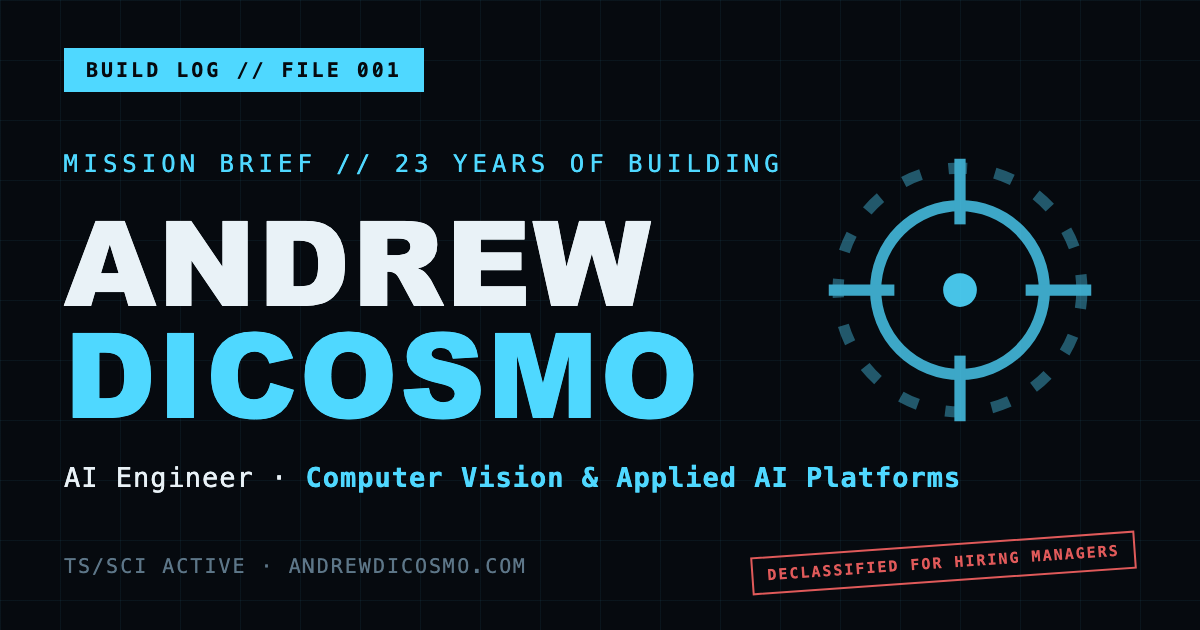
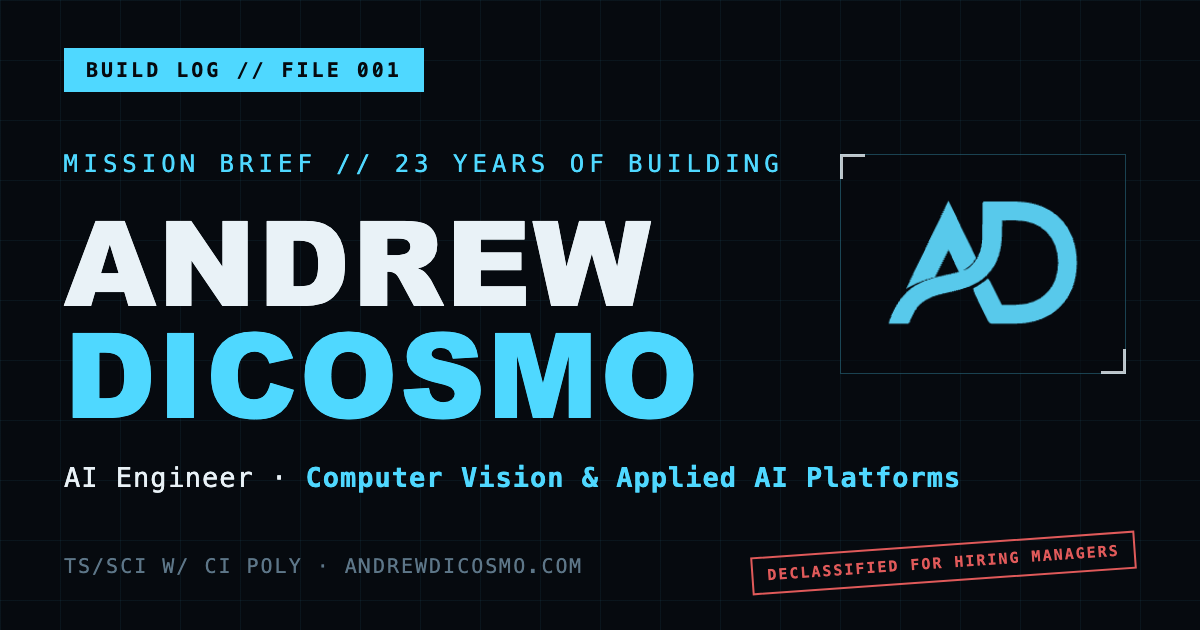
Polish inquiry alerts and branded sharing assets

diff --git a/api/src/functions/brief.js b/api/src/functions/brief.js
@@ -100,6 +100,118 @@ function formatOwnerInquiry(lead, body) {
   return lines.filter((line) => line !== null && line !== undefined).join('\n').slice(0, 20000);
 }
 
+function formatOwnerInquiryHtml(lead, body) {
+  const paths = formatPath(body.paths || {});
+  const fields = formatFields(body.fields || [], body.paths || {});
+  const chips = Array.isArray(body.chips) ? body.chips.map(clean).filter(Boolean) : [];
+  const inquiryNotes = clean(body.brief);
+  const reqLink = safeHttpsUrl(body.reqLink);
+  const contactRows = compact([
+    ['Name', lead.name],
+    ['Email', lead.email],
+    clean(lead.company) ? ['Company', clean(lead.company)] : null,
+    clean(lead.role) ? ['Role or title', clean(lead.role)] : null,
+    paths ? ['Engagement path', paths] : null
+  ]);
+  const detailRows = [...contactRows, ...fields].map(([label, value]) => `
+                    <tr>
+                      <td class="detail-row" style="padding:10px 0;border-bottom:1px solid #e7edf2;">
+                        <div class="muted" style="color:#66727c;font-size:11px;line-height:1.4;text-transform:uppercase;letter-spacing:0.6px;">${escapeHtml(label)}</div>
+                        <div class="body-copy" style="margin-top:3px;color:#16222b;font-size:14px;line-height:1.5;font-weight:700;">${escapeHtml(value)}</div>
+                      </td>
+                    </tr>`).join('');
+  const workAreas = chips.length
+    ? `<div style="margin:0 0 22px;">
+                  <div class="section-label" style="margin:0 0 9px;color:#16222b;font-size:12px;line-height:1.4;letter-spacing:1.4px;text-transform:uppercase;font-weight:800;">Work areas</div>
+                  ${chips.map((chip) => `<span class="chip" style="display:inline-block;margin:0 6px 6px 0;padding:6px 9px;background:#e8f4f9;border:1px solid #c9e3ee;border-radius:4px;color:#21495b;font-size:12px;line-height:1.2;font-weight:700;">${escapeHtml(chip)}</span>`).join('')}
+                </div>`
+    : '';
+  const jobRequirement = (reqLink || lead.attachmentBlob)
+    ? `<div class="callout" style="margin:0 0 22px;padding:14px 16px;background:#f4f7f9;border-left:4px solid #1e6f8f;">
+                  <div class="section-label" style="margin:0 0 7px;color:#16222b;font-size:12px;line-height:1.4;letter-spacing:1.4px;text-transform:uppercase;font-weight:800;">Job requirement</div>
+                  ${reqLink ? `<div class="body-copy" style="font-size:13px;line-height:1.6;"><a href="${escapeHtml(reqLink)}" style="color:#1e6f8f;text-decoration:underline;">Open supplied link</a></div>` : ''}
+                  ${lead.attachmentBlob ? `<div class="muted" style="margin-top:${reqLink ? '5px' : '0'};color:#66727c;font-size:12px;line-height:1.5;">Attachment stored as ${escapeHtml(lead.attachmentBlob)}</div>` : ''}
+                </div>`
+    : '';
+  const notes = inquiryNotes
+    ? `<div style="margin:0 0 22px;">
+                  <div class="section-label" style="margin:0 0 8px;color:#16222b;font-size:12px;line-height:1.4;letter-spacing:1.4px;text-transform:uppercase;font-weight:800;">Inquiry notes</div>
+                  <div class="notes body-copy" style="padding:14px 16px;background:#f4f7f9;color:#243540;font-size:14px;line-height:1.7;white-space:pre-wrap;">${escapeHtml(inquiryNotes)}</div>
+                </div>`
+    : '';
+
+  return `<!doctype html>
+<html lang="en">
+  <head>
+    <meta name="viewport" content="width=device-width, initial-scale=1">
+    <meta name="color-scheme" content="light dark">
+    <meta name="supported-color-schemes" content="light dark">
+    <style>
+      @media (prefers-color-scheme: dark) {
+        .page-bg { background: #10171c !important; }
+        .email-card { background: #182229 !important; border-color: #33434e !important; }
+        .body-copy, .section-label { color: #f2f6f8 !important; }
+        .muted { color: #b2c0c9 !important; }
+        .detail-row { border-color: #33434e !important; }
+        .callout, .notes { background: #21343e !important; }
+        .chip { background: #213d4a !important; border-color: #315566 !important; color: #bdeafa !important; }
+      }
+    </style>
+  </head>
+  <body style="margin:0;padding:0;background:#f4f7f9;font-family:Arial,Helvetica,sans-serif;color:#16222b;">
+    <div style="display:none;max-height:0;overflow:hidden;color:transparent;">New ${lead.complete ? 'complete' : 'partial'} inquiry from ${escapeHtml(lead.name)}${lead.company ? ` at ${escapeHtml(lead.company)}` : ''}.</div>
+    <table class="page-bg" role="presentation" width="100%" cellpadding="0" cellspacing="0" style="background:#f4f7f9;margin:0;padding:28px 12px;">
+      <tr>
+        <td align="center">
+          <table class="email-card" role="presentation" width="100%" cellpadding="0" cellspacing="0" style="max-width:640px;background:#ffffff;border:1px solid #dfe7ee;border-radius:8px;overflow:hidden;">
+            <tr>
+              <td style="background:#16222b;padding:20px 26px;">
+                <table role="presentation" width="100%" cellpadding="0" cellspacing="0">
+                  <tr>
+                    <td width="68" style="width:68px;padding:0 14px 0 0;vertical-align:middle;">
+                      <img src="cid:ad-monogram" width="54" height="36" alt="AD" style="display:block;width:54px;height:36px;border:0;">
+                    </td>
+                    <td style="vertical-align:middle;">
+                      <div style="font-size:12px;line-height:1.4;letter-spacing:2px;text-transform:uppercase;color:#9fb7c9;font-weight:700;">AndrewDiCosmo.com</div>
+                      <div style="font-size:24px;line-height:1.25;color:#ffffff;font-weight:800;margin-top:6px;">New inquiry</div>
+                    </td>
+                    <td align="right" style="vertical-align:middle;">
+                      <span style="display:inline-block;padding:6px 9px;background:${lead.complete ? '#dff5e7' : '#fff0ce'};border-radius:4px;color:${lead.complete ? '#176438' : '#76540b'};font-size:11px;line-height:1.2;font-weight:800;text-transform:uppercase;">${lead.complete ? 'Complete' : 'Partial'}</span>
+                    </td>
+                  </tr>
+                </table>
+              </td>
+            </tr>
+            <tr>
+              <td style="padding:26px;">
+                <div class="muted" style="margin:0 0 4px;color:#66727c;font-size:12px;line-height:1.4;">Lead ID: ${escapeHtml(lead.rowKey)}</div>
+                <div class="body-copy" style="margin:0 0 18px;color:#16222b;font-size:20px;line-height:1.4;font-weight:800;">${escapeHtml(lead.name)}${lead.company ? ` · ${escapeHtml(lead.company)}` : ''}</div>
+
+                <table role="presentation" width="100%" cellpadding="0" cellspacing="0" style="border-top:3px solid #1e6f8f;margin:0 0 22px;">
+                  ${detailRows}
+                </table>
+
+                ${workAreas}
+                ${jobRequirement}
+                ${notes}
+
+                <table role="presentation" cellpadding="0" cellspacing="0">
+                  <tr>
+                    <td style="background:#1e6f8f;border-radius:5px;">
+                      <a href="mailto:${escapeHtml(lead.email)}" style="display:inline-block;padding:13px 20px;color:#ffffff;text-decoration:none;font-size:14px;line-height:1.2;font-weight:700;">Reply to ${escapeHtml(lead.name)}</a>
+                    </td>
+                  </tr>
+                </table>
+              </td>
+            </tr>
+          </table>
+        </td>
+      </tr>
+    </table>
+  </body>
+</html>`.slice(0, 20000);
+}
+
 function getSubmitterReplyModel(lead, body, options = {}) {
   const paths = body.paths || {};
   const fields = formatFields(body.fields || [], paths);
@@ -372,9 +484,10 @@ app.http('brief', {
           recipient: to,
           subject: `INQUIRY · ${name}${lead.company ? ' · ' + lead.company : ''}${lead.complete ? ' · COMPLETE' : ''}`,
           text: formatOwnerInquiry(lead, body),
+          html: formatOwnerInquiryHtml(lead, body),
           replyTo: email,
           replyToName: name,
-          attachments: []
+          attachments: compact([emailLogoAttachment])
         } : null;
 
         if (acs) {

diff --git a/scripts/og-card.html b/scripts/og-card.html
@@ -44,7 +44,20 @@
   .subject { margin-top: 34px; font-size: 27px; color: #E9F2F7; letter-spacing: 1px; }
   .subject b { color: #4FD8FF; }
   .meta { position: absolute; left: 64px; bottom: 52px; font-size: 20px; color: #5d7688; letter-spacing: 2px; }
-  .reticle { position: absolute; right: 90px; top: 140px; opacity: .9; }
+  .brand-mark {
+    position: absolute; right: 74px; top: 154px;
+    width: 286px; height: 220px;
+    border: 1px solid rgba(79,216,255,.28);
+    background: rgba(6,10,15,.62);
+    display: flex; align-items: center; justify-content: center;
+  }
+  .brand-mark::before, .brand-mark::after {
+    content: ""; position: absolute; width: 22px; height: 22px;
+    border-color: #4FD8FF; opacity: .8;
+  }
+  .brand-mark::before { left: -1px; top: -1px; border-left: 3px solid; border-top: 3px solid; }
+  .brand-mark::after { right: -1px; bottom: -1px; border-right: 3px solid; border-bottom: 3px solid; }
+  .brand-mark img { width: 224px; height: auto; display: block; }
   .stamp {
     position: absolute; right: 64px; bottom: 48px;
     border: 2px solid #E05A5A; color: #E05A5A; padding: 8px 14px;
@@ -61,18 +74,10 @@
     <h1>ANDREW<br><span class="last">DICOSMO</span></h1>
     <div class="subject">AI Engineer · <b>Computer Vision &amp; Applied AI Platforms</b></div>
   </div>
-  <svg class="reticle" width="300" height="300" viewBox="0 0 32 32">
-    <g stroke="#4FD8FF" stroke-width="1.2" fill="none" opacity="0.85">
-      <circle cx="16" cy="16" r="9"/>
-      <circle cx="16" cy="16" r="13" stroke-dasharray="2 3" opacity="0.5"/>
-      <line x1="16" y1="2" x2="16" y2="9"/>
-      <line x1="16" y1="23" x2="16" y2="30"/>
-      <line x1="2" y1="16" x2="9" y2="16"/>
-      <line x1="23" y1="16" x2="30" y2="16"/>
-    </g>
-    <circle cx="16" cy="16" r="1.8" fill="#4FD8FF"/>
-  </svg>
-  <div class="meta">TS/SCI ACTIVE · ANDREWDICOSMO.COM</div>
+  <div class="brand-mark">
+    <img src="../api/assets/ad-monogram.png" alt="">
+  </div>
+  <div class="meta">TS/SCI W/ CI POLY · ANDREWDICOSMO.COM</div>
   <div class="stamp">DECLASSIFIED FOR HIRING MANAGERS</div>
 </body>
 </html>

diff --git a/scripts/apple-touch-icon.html b/scripts/apple-touch-icon.html
@@ -1,0 +1,30 @@
+<!doctype html>
+<html lang="en">
+<head>
+  <meta charset="UTF-8">
+  <style>
+    * { box-sizing: border-box; }
+    html, body {
+      width: 180px;
+      height: 180px;
+      margin: 0;
+      overflow: hidden;
+      background: #16222b;
+    }
+    body {
+      display: flex;
+      align-items: center;
+      justify-content: center;
+      border: 6px solid #203642;
+    }
+    img {
+      display: block;
+      width: 140px;
+      height: auto;
+    }
+  </style>
+</head>
+<body>
+  <img src="../api/assets/ad-monogram.png" alt="">
+</body>
+</html>
